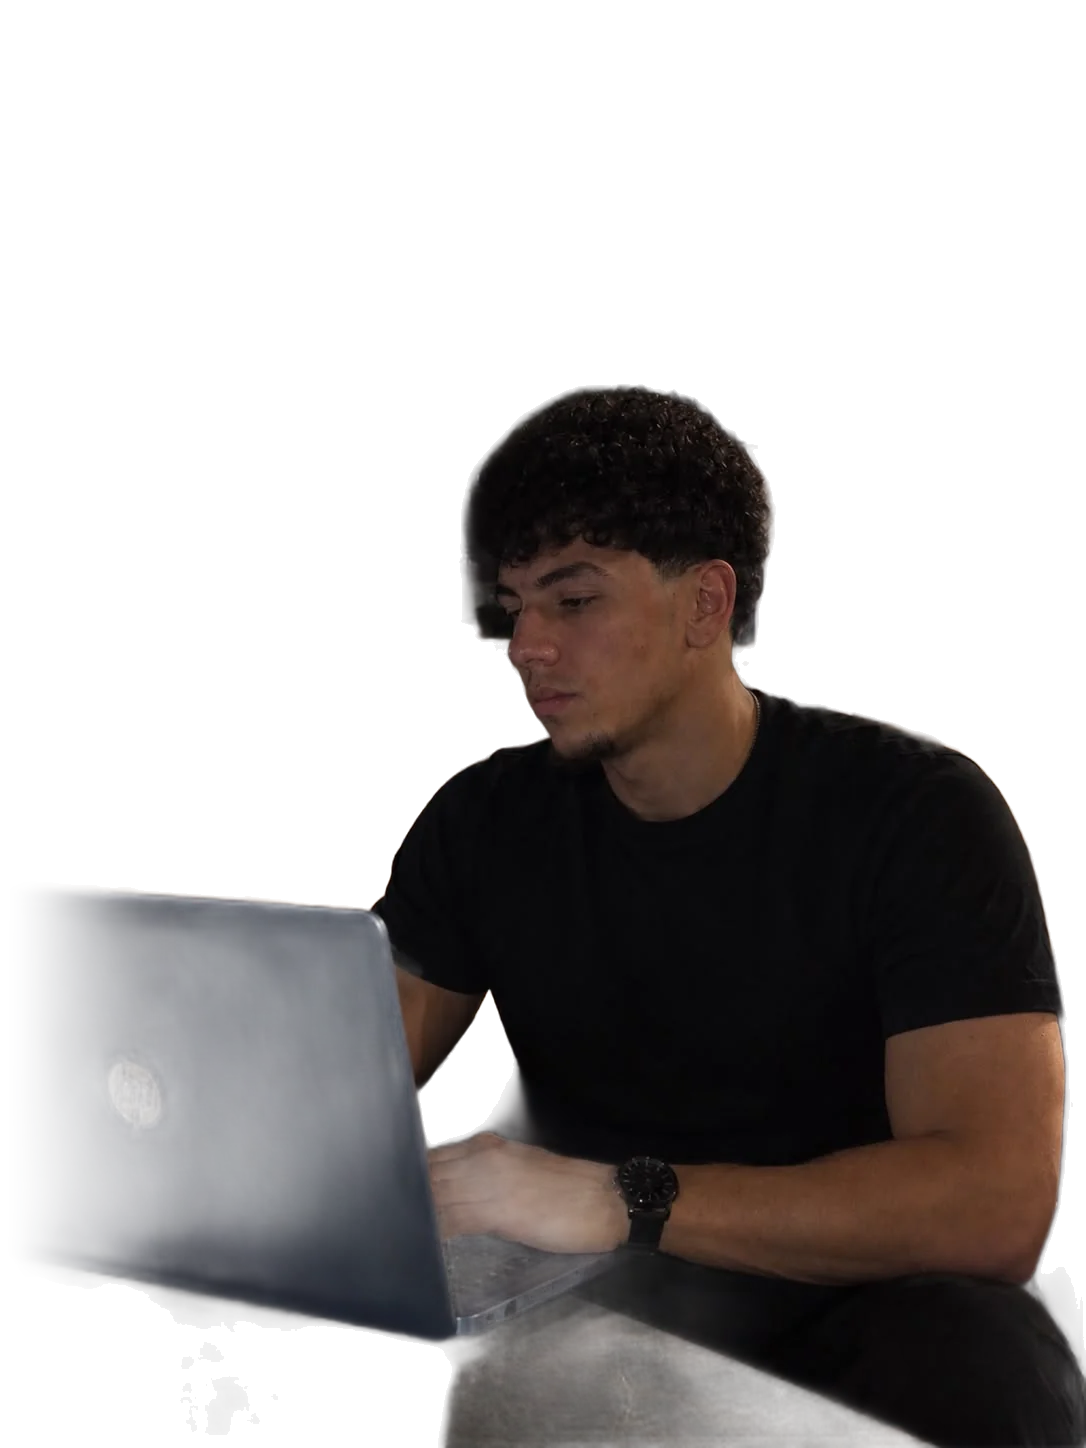
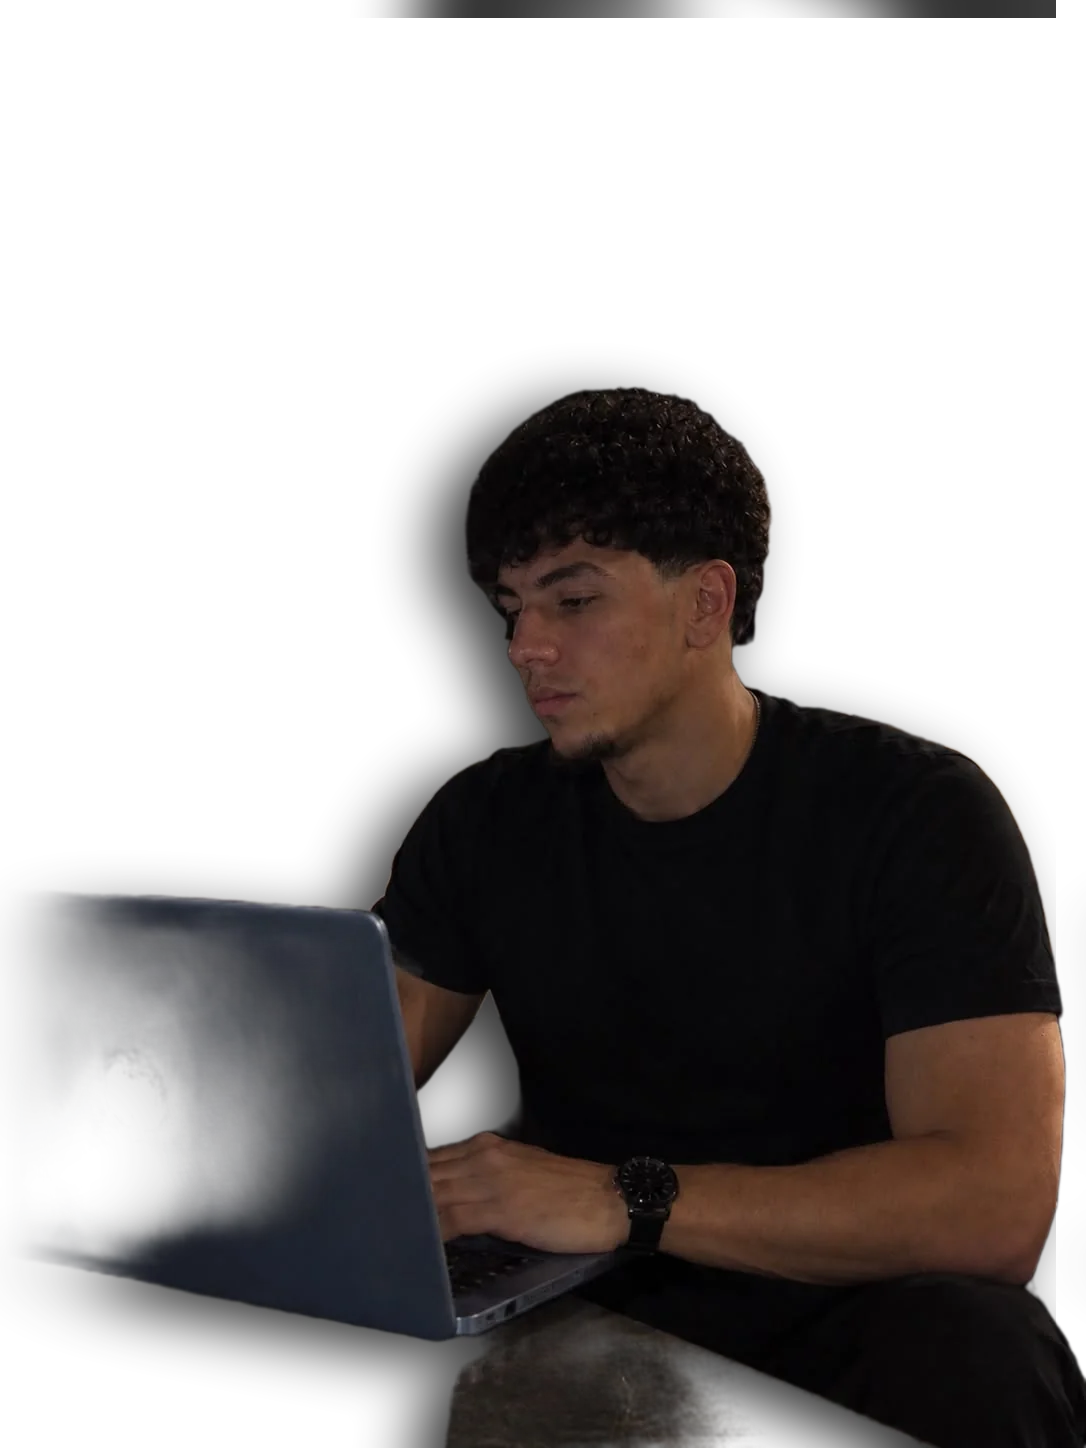
Portada: recorte limpio junto a la cabeza y circulo con sombra detras

diff --git a/style.css b/style.css
@@ -415,18 +415,19 @@ button {
   background: linear-gradient(0deg, var(--bg) 0%, transparent 22%);
 }
 
-/* aro fino con un brillo suave detras de la cabeza */
+/* circulo mas claro detras: la cabeza sobresale por arriba y su sombra cae encima,
+   asi parece que me salgo del circulo */
 .hero__photo::before {
   content: '';
   position: absolute;
   z-index: -1;
-  top: 26%;
+  top: 54%;
   left: 58%;
-  width: 520px;
+  width: 600px;
   aspect-ratio: 1;
-  border: 1px solid rgba(255, 255, 255, 0.1);
+  border: 1px solid rgba(255, 255, 255, 0.12);
   border-radius: 50%;
-  background: radial-gradient(circle, rgba(74, 168, 255, 0.12) 0%, transparent 62%);
+  background: radial-gradient(circle at 50% 30%, #2a313b 0%, #171b21 55%, #101215 100%);
   transform: translate(-50%, -50%);
 }
 
